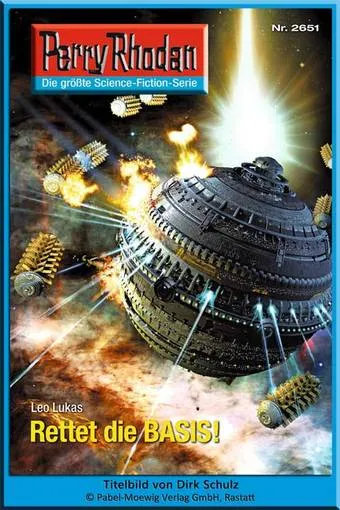
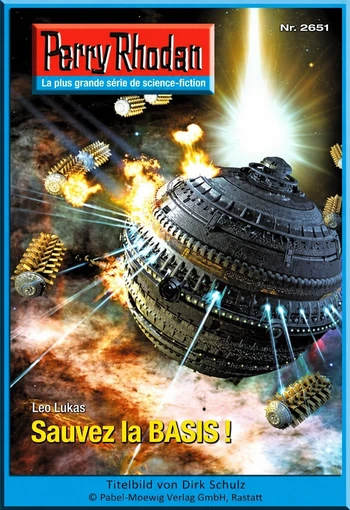
fix: translate covers 2643-2652

diff --git a/src/content/chapitres/de-2649.md b/src/content/chapitres/de-2649.md
@@ -4,11 +4,11 @@ cycleNumber: 37
 chapterNumber: 2649
 type: translation
 originalTitle: "Die Baumeister der BASIS"
-cover: "/images/covers/de-2649.webp"
+cover: "/images/covers/de-2649.webp?v=20261116-2649-fr"
 auteur: "Michael Marcus Thurner"
 parution: "2012-06-08"
 statut: traduit
-titleFr: "Les Architectes"
+titleFr: "Perry 2649 - Les architectes de la BASIS"
 ---
 
 Les Architectes de la BASIS

diff --git a/src/content/chapitres/de-2652.md b/src/content/chapitres/de-2652.md
@@ -4,11 +4,11 @@ cycleNumber: 37
 chapterNumber: 2652
 type: translation
 originalTitle: "Traum der wahren Gedanken"
-cover: "/images/covers/de-2652.webp"
+cover: "/images/covers/de-2652.webp?v=20261116-2652-fr"
 auteur: "Susan Schwartz"
 parution: "2012-06-29"
 statut: traduit
-titleFr: "Rêve des pensées vraies"
+titleFr: "Perry 2652 - Rêve des pensées vraies"
 ---
 
 Rêve des pensées vraies

diff --git a/src/content/chapitres/de-2645.md b/src/content/chapitres/de-2645.md
@@ -4,11 +4,11 @@ cycleNumber: 37
 chapterNumber: 2645
 type: translation
 originalTitle: "Die Stadt ohne Geheimnisse"
-cover: "/images/covers/de-2645.webp"
+cover: "/images/covers/de-2645.webp?v=20261116-2645-fr"
 auteur: "Wim Vandemaan"
 parution: "2012-05-11"
 statut: traduit
-titleFr: "La Cité sans secrets"
+titleFr: "Perry 2645 - La cité sans secrets"
 ---
 
 La Cité sans secrets

diff --git a/src/content/chapitres/de-2646.md b/src/content/chapitres/de-2646.md
@@ -4,11 +4,11 @@ cycleNumber: 37
 chapterNumber: 2646
 type: translation
 originalTitle: "Die Tage des Schattens"
-cover: "/images/covers/de-2646.webp"
+cover: "/images/covers/de-2646.webp?v=20261116-2646-fr"
 auteur: "Leo Lukas"
 parution: "2012-05-18"
 statut: traduit
-titleFr: "Les jours de l'ombre"
+titleFr: "Perry 2646 - Les jours de l'ombre"
 ---
 
 Les Jours de l'Ombre

diff --git a/src/content/chapitres/de-2648.md b/src/content/chapitres/de-2648.md
@@ -4,11 +4,11 @@ cycleNumber: 37
 chapterNumber: 2648
 type: translation
 originalTitle: "Die Seele der Flotte"
-cover: "/images/covers/de-2648.webp"
+cover: "/images/covers/de-2648.webp?v=20261116-2648-fr"
 auteur: "Christian Montillon"
 parution: "2012-06-01"
 statut: traduit
-titleFr: "L’âme"
+titleFr: "Perry 2648 - L'âme de la flotte"
 ---
 
 L’âme de la Flotte

diff --git a/src/content/chapitres/de-2651.md b/src/content/chapitres/de-2651.md
@@ -4,11 +4,11 @@ cycleNumber: 37
 chapterNumber: 2651
 type: translation
 originalTitle: "Rettet die BASIS!"
-cover: "/images/covers/de-2651.webp"
+cover: "/images/covers/de-2651.webp?v=20261116-2651-fr"
 auteur: "Leo Lukas"
 parution: "2012-06-22"
 statut: traduit
-titleFr: "Sauvez la BASIS !"
+titleFr: "Perry 2651 - Sauvez la BASIS !"
 ---
 
 Sauvez la BASIS !

diff --git a/src/content/chapitres/de-2644.md b/src/content/chapitres/de-2644.md
@@ -4,7 +4,7 @@ cycleNumber: 37
 chapterNumber: 2644
 type: translation
 originalTitle: "Die Guerillas von Terrania"
-cover: "/images/covers/de-2644.webp"
+cover: "/images/covers/de-2644.webp?v=20261116-2644-fr"
 auteur: "Verena Themsen"
 parution: "2012-05-04"
 statut: traduit

diff --git a/src/content/chapitres/de-2643.md b/src/content/chapitres/de-2643.md
@@ -4,7 +4,7 @@ cycleNumber: 37
 chapterNumber: 2643
 type: translation
 originalTitle: "TANEDRARS Puppe"
-cover: "/images/covers/de-2643.webp"
+cover: "/images/covers/de-2643.webp?v=20261116-2643-fr"
 auteur: "Christian Montillon"
 parution: "2012-04-27"
 statut: traduit

diff --git a/src/content/chapitres/de-2650.md b/src/content/chapitres/de-2650.md
@@ -4,7 +4,7 @@ cycleNumber: 37
 chapterNumber: 2650
 type: translation
 originalTitle: "Die Phanes-Schaltung"
-cover: "/images/covers/de-2650.webp"
+cover: "/images/covers/de-2650.webp?v=20261116-2650-fr"
 auteur: "Uwe Anton"
 parution: "2012-06-15"
 statut: traduit

diff --git a/src/content/chapitres/de-2647.md b/src/content/chapitres/de-2647.md
@@ -4,7 +4,7 @@ cycleNumber: 37
 chapterNumber: 2647
 type: translation
 originalTitle: "Der Umbrische Gong"
-cover: "/images/covers/de-2647.webp"
+cover: "/images/covers/de-2647.webp?v=20261116-2647-fr"
 auteur: "Leo Lukas"
 parution: "2012-05-25"
 statut: traduit
